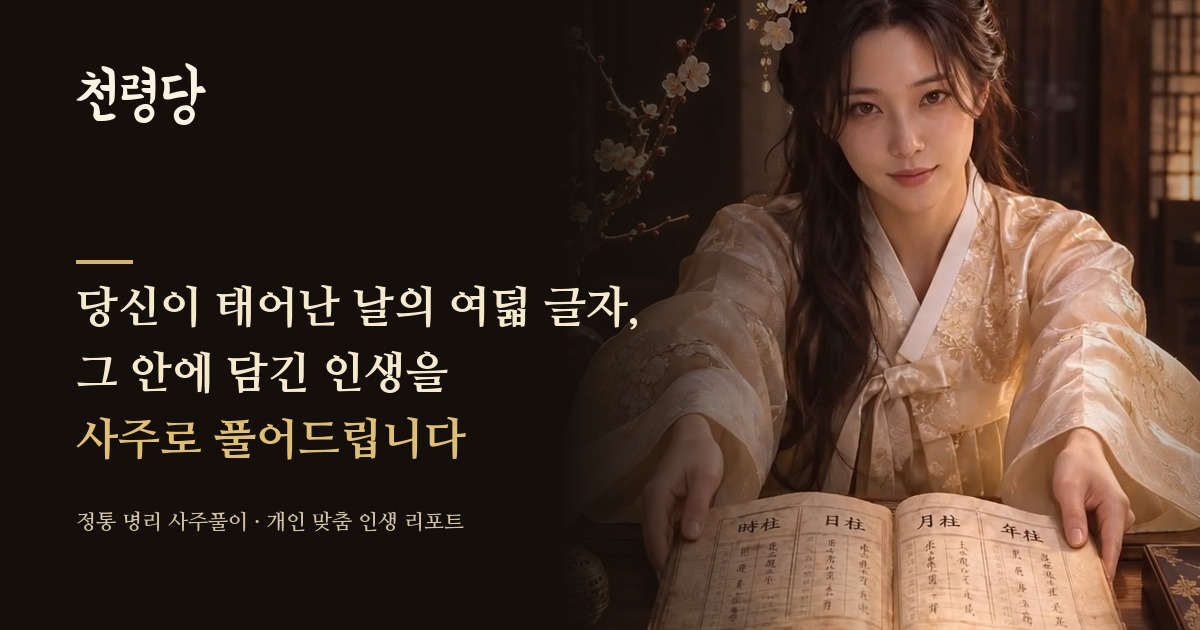
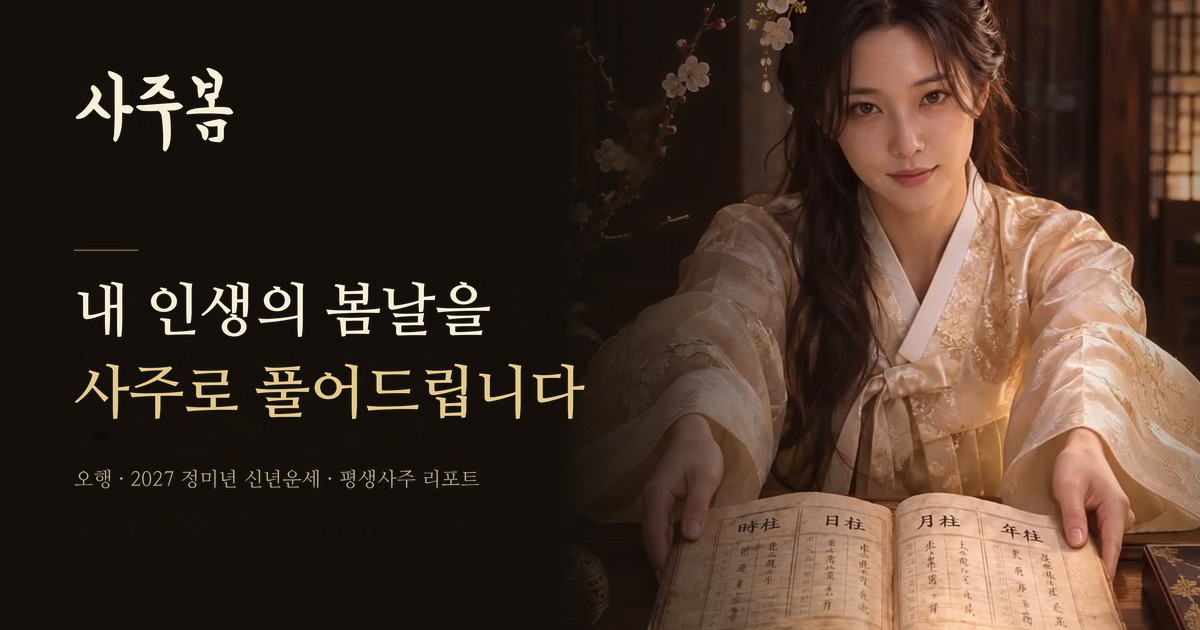
feat(v74): 브랜드 리브랜딩 천령당·월하당 → 사주봄 (전 화면·약관·PDF·OG 카드·메타)

diff --git a/index.html b/index.html
@@ -4,27 +4,27 @@
 <meta charset="utf-8">
 <meta name="viewport" content="width=device-width, initial-scale=1, viewport-fit=cover">
 <meta name="format-detection" content="telephone=no">
-<title>천령당 · 당신의 여덟 글자를 읽다</title>
-<meta name="description" content="천령당 — 달빛 아래, 당신의 여덟 글자. 테마별 심층 풀이와, 타고난 기질부터 인생의 전환점·재물·직업·사랑·가족·노후까지 담은 프리미엄 인생사주 리포트.">
+<title>사주봄 · 내 인생의 봄날을 사주로 풀어드립니다</title>
+<meta name="description" content="사주봄 — 내 인생의 봄날을 사주로 풀어드립니다. 사주 오행과 2027 정미년 신년운세, 테마별 심층 풀이부터 타고난 기질·재물·직업·사랑·가족·노후까지 담은 평생사주 리포트.">
 <meta name="theme-color" content="#FAF7F2">
-<meta name="author" content="천령당">
+<meta name="author" content="사주봄">
 <link rel="canonical" href="https://with-hj.github.io/wolhadang-saju/">
 
 <meta property="og:type" content="website">
-<meta property="og:site_name" content="천령당">
+<meta property="og:site_name" content="사주봄">
 <meta property="og:url" content="https://with-hj.github.io/wolhadang-saju/">
-<meta property="og:title" content="천령당 · 당신의 여덟 글자를 읽다">
-<meta property="og:description" content="당신이 태어난 날의 여덟 글자, 그 안에 담긴 인생을 사주로 풀어드립니다.">
-<meta property="og:image" content="https://with-hj.github.io/wolhadang-saju/assets/og-card.jpg?v=73">
+<meta property="og:title" content="사주봄 · 내 인생의 봄날을 사주로 풀어드립니다">
+<meta property="og:description" content="내 인생의 봄날을 사주로 풀어드립니다. 나의 오행과 2027 정미년 신년운세, 평생사주 리포트까지.">
+<meta property="og:image" content="https://with-hj.github.io/wolhadang-saju/assets/og-card.jpg?v=74">
 <meta property="og:image:type" content="image/jpeg">
 <meta property="og:image:width" content="1200">
 <meta property="og:image:height" content="630">
-<meta property="og:image:alt" content="천령당 — 당신의 여덟 글자를 읽다">
+<meta property="og:image:alt" content="사주봄 — 내 인생의 봄날을 사주로 풀어드립니다">
 <meta property="og:locale" content="ko_KR">
 <meta name="twitter:card" content="summary_large_image">
-<meta name="twitter:title" content="천령당 · 당신의 여덟 글자를 읽다">
-<meta name="twitter:description" content="당신이 태어난 날의 여덟 글자, 그 안에 담긴 인생을 사주로 풀어드립니다.">
-<meta name="twitter:image" content="https://with-hj.github.io/wolhadang-saju/assets/og-card.jpg?v=73">
+<meta name="twitter:title" content="사주봄 · 내 인생의 봄날을 사주로 풀어드립니다">
+<meta name="twitter:description" content="내 인생의 봄날을 사주로 풀어드립니다. 나의 오행과 2027 정미년 신년운세, 평생사주 리포트까지.">
+<meta name="twitter:image" content="https://with-hj.github.io/wolhadang-saju/assets/og-card.jpg?v=74">
 
 <link rel="icon" type="image/png" sizes="180x180" href="./assets/icon.png">
 <link rel="apple-touch-icon" sizes="180x180" href="./assets/icon.png">
@@ -34,8 +34,8 @@
 <link rel="preconnect" href="https://cdn.jsdelivr.net" crossorigin>
 <link href="https://fonts.googleapis.com/css2?family=Gowun+Batang:wght@400;700&family=Nanum+Myeongjo:wght@400;700;800&family=Yeon+Sung&display=swap" rel="stylesheet">
 <link rel="stylesheet" href="https://cdn.jsdelivr.net/gh/orioncactus/pretendard@v1.3.9/dist/web/variable/pretendardvariable-dynamic-subset.min.css" crossorigin="anonymous">
-<link rel="stylesheet" href="./styles.css?v=73">
-<link rel="stylesheet" href="./book.css?v=73">
+<link rel="stylesheet" href="./styles.css?v=74">
+<link rel="stylesheet" href="./book.css?v=74">
 <script>window.__errs=[];addEventListener('error',function(e){__errs.push(e.message||String(e))});addEventListener('unhandledrejection',function(e){__errs.push('promise:'+e.reason)});</script>
 <!-- v54 · 첫 대문(게이트) 노출 여부를 첫 그림 전에 정한다 — 깜빡임 없이 바로 뜨거나 바로 건너뛴다 -->
 <script>
@@ -55,8 +55,8 @@
 
 <header class="hd">
   <div class="wrap">
-    <a class="brand" href="#top" aria-label="천령당 홈">
-      <span class="bn">천령당</span>
+    <a class="brand" href="#top" aria-label="사주봄 홈">
+      <span class="bn">사주봄</span>
     </a>
     <!-- v53 · 우측 서랍 메뉴 열기 -->
     <button type="button" class="hd-menu" id="menuBtn" aria-label="메뉴 열기" aria-haspopup="dialog" aria-expanded="false" aria-controls="drawer">
@@ -274,7 +274,7 @@
       <div class="lr-intro">
         <div class="lr-hero" id="lrHero">
           <!-- v60 · 첫 화면에서 함께 받지 않는다. 인생사주 리포트 트랙을 열 때 스크립트가 data-src를 실제 src로 옮겨 재생한다. -->
-          <video class="lr-art" id="lrVideo" data-src="./assets/videos/report.mp4?v=73" poster="./assets/videos/report-poster.jpg?v=73"
+          <video class="lr-art" id="lrVideo" data-src="./assets/videos/report.mp4?v=74" poster="./assets/videos/report-poster.jpg?v=74"
             muted playsinline loop preload="none" aria-label="인생사주 리포트 소개 영상"></video>
           <span class="lr-veil" aria-hidden="true"></span>
         </div>
@@ -532,7 +532,7 @@
   <section class="sec sec-brand">
     <div class="wrap">
       <div class="brand-note">
-        <span class="no">천령당</span>
+        <span class="no">사주봄</span>
         <p>여덟 글자에 새겨진 하늘의 뜻을,<br>한 사람의 언어로 옮깁니다.</p>
       </div>
     </div>
@@ -551,7 +551,7 @@
       <button type="button" class="ft-lk" data-doc="terms" aria-haspopup="dialog">이용약관</button><i aria-hidden="true">|</i><button type="button" class="ft-lk" data-doc="privacy" aria-haspopup="dialog">개인정보처리방침</button><i aria-hidden="true">|</i><button type="button" class="ft-lk" data-doc="refund" aria-haspopup="dialog">환불규정</button>
     </div>
     <div class="ft-note">
-      <button type="button" class="ft-adm" id="ftAdmin" aria-haspopup="dialog">관리자</button><span>© 2026 천령당 · All rights reserved.</span>
+      <button type="button" class="ft-adm" id="ftAdmin" aria-haspopup="dialog">관리자</button><span>© 2026 사주봄 · All rights reserved.</span>
     </div>
   </div>
 </footer>
@@ -561,7 +561,7 @@
 <aside class="drawer" id="drawer" role="dialog" aria-modal="true" aria-labelledby="drTitle" aria-hidden="true">
   <div class="dr-hd">
     <div class="dr-brand">
-      <span class="dr-t" id="drTitle">천령당</span>
+      <span class="dr-t" id="drTitle">사주봄</span>
     </div>
     <button type="button" class="dr-x" id="drClose" aria-label="메뉴 닫기">✕</button>
   </div>
@@ -579,7 +579,7 @@
       <button type="button" class="dr-link" data-dr="contact">문의하기</button>
     </nav>
   </div>
-  <div class="dr-ft">천령당 · 사주명리 기반 참고 해석</div>
+  <div class="dr-ft">사주봄 · 사주명리 기반 참고 해석</div>
 </aside>
 
 <!-- ================= v53 · 마이페이지 ================= -->
@@ -634,14 +634,14 @@
 
 <template id="lgTerms">
 <div class="lg-doc">
-  <p class="lg-t">이 약관은 스앤빅(이하 “회사”)이 운영하는 천령당(이하 “서비스”)의 이용 조건과 절차, 회사와 이용자의 권리·의무를 정합니다. 결제 전에 꼭 읽어 주세요.</p>
+  <p class="lg-t">이 약관은 스앤빅(이하 “회사”)이 운영하는 사주봄(이하 “서비스”)의 이용 조건과 절차, 회사와 이용자의 권리·의무를 정합니다. 결제 전에 꼭 읽어 주세요.</p>
 
   <h4>제1조 (목적)</h4>
   <p>이 약관은 회사가 제공하는 사주명리 기반 디지털 콘텐츠의 이용과 관련하여 회사와 이용자 사이의 권리·의무 및 책임 사항, 이용 조건과 절차를 정하는 것을 목적으로 합니다.</p>
 
   <h4>제2조 (정의)</h4>
   <ul class="lg-ul">
-    <li>“서비스”란 회사가 천령당 웹사이트를 통해 제공하는 사주명리 해석 콘텐츠와 이에 부수하는 일체의 서비스를 말합니다.</li>
+    <li>“서비스”란 회사가 사주봄 웹사이트를 통해 제공하는 사주명리 해석 콘텐츠와 이에 부수하는 일체의 서비스를 말합니다.</li>
     <li>“이용자”란 이 약관에 따라 서비스를 이용하는 자를 말합니다.</li>
     <li>“유료 콘텐츠”란 대금을 지급하고 이용하는 콘텐츠로서 테마별 풀이(3,900원)와 인생사주 리포트(정가 119,000원, 판매가 39,800원, 테마별 풀이를 결제한 경우 35,900원)를 말합니다.</li>
     <li>“접수번호”란 유료 콘텐츠 신청 시 회사가 부여하는 식별 번호를 말합니다.</li>
@@ -871,7 +871,7 @@
 <!-- ================= 관리자 비밀번호 ================= -->
 <div class="pwmodal" id="pwModal" role="dialog" aria-modal="true" aria-labelledby="pwTitle" aria-hidden="true">
   <div class="pwbox" id="pwBox">
-    <span class="pw-brand" aria-hidden="true">천령당</span>
+    <span class="pw-brand" aria-hidden="true">사주봄</span>
     <h3 id="pwTitle">관리자 비밀번호 입력</h3>
     <p class="pw-sub">운영자만 열람할 수 있습니다.</p>
     <form id="pwForm" autocomplete="off">
@@ -889,7 +889,7 @@
 <div class="sheet" id="adminSheet" aria-hidden="true" data-mode="admin">
   <div class="sheet-hd">
     <div class="wrap">
-      <h2 id="sheetTitle">천령당 · 내 인생사주 리포트</h2>
+      <h2 id="sheetTitle">사주봄 · 내 인생사주 리포트</h2>
       <button type="button" class="x" id="admClose">닫기</button>
     </div>
   </div>
@@ -945,7 +945,7 @@
 <div class="gate" id="gate" role="dialog" aria-modal="true" aria-labelledby="gateBrand" tabindex="-1">
   <div class="gate-frame">
     <!-- v60 · 대문이 실제로 뜰 때만 대문 영상을 받는다(돌아온 손님은 받지 않음). 아래 인라인 스크립트가 곧바로 src를 붙인다. -->
-    <video id="gateVideo" class="gate-video" data-src="./assets/videos/gate.mp4?v=73" poster="./assets/gate-poster.jpg?v=73"
+    <video id="gateVideo" class="gate-video" data-src="./assets/videos/gate.mp4?v=74" poster="./assets/gate-poster.jpg?v=74"
       autoplay muted playsinline loop preload="none"></video>
     <script>
     (function(){
@@ -958,7 +958,7 @@
     <span class="gate-veil" aria-hidden="true"></span>
 
     <div class="gate-top">
-      <span class="gate-brand" id="gateBrand">천령당</span>
+      <span class="gate-brand" id="gateBrand">사주봄</span>
     </div>
     <button type="button" class="gate-skip" id="gateSkip">건너뛰기</button>
 
@@ -971,17 +971,17 @@
   </div>
 </div>
 
-<script src="./engine.js?v=73"></script>
-<script src="./deep-core.js?v=73"></script>
-<script src="./content.js?v=73"></script>
-<script src="./content-deep.js?v=73"></script>
-<script src="./content-general.js?v=73"></script>
-<script src="./content-love.js?v=73"></script>
-<script src="./content-marriage.js?v=73"></script>
-<script src="./content-baby.js?v=73"></script>
-<script src="./content-wealth.js?v=73"></script>
-<script src="./book.js?v=73"></script>
-<script src="./book-more.js?v=73"></script>
-<script src="./app.js?v=73"></script>
+<script src="./engine.js?v=74"></script>
+<script src="./deep-core.js?v=74"></script>
+<script src="./content.js?v=74"></script>
+<script src="./content-deep.js?v=74"></script>
+<script src="./content-general.js?v=74"></script>
+<script src="./content-love.js?v=74"></script>
+<script src="./content-marriage.js?v=74"></script>
+<script src="./content-baby.js?v=74"></script>
+<script src="./content-wealth.js?v=74"></script>
+<script src="./book.js?v=74"></script>
+<script src="./book-more.js?v=74"></script>
+<script src="./app.js?v=74"></script>
 </body>
 </html>

diff --git a/book-more.js b/book-more.js
@@ -1,5 +1,5 @@
 /* =====================================================================
-   천령당 인생사주 리포트 — 시간의 지도 (평생 대운 · 5년 세운 · 12개월 월력)
+   사주봄 인생사주 리포트 — 시간의 지도 (평생 대운 · 5년 세운 · 12개월 월력)
    + 개운 처방 · 맞춤 질문 · 검수 서명 · 부록
    ===================================================================== */
 (function(){
@@ -18,9 +18,9 @@ function stemS(s){return S.STEM_KO[s]+'('+S.STEM_HAN[s]+')';}
 function brS(b){return S.BR_KO[b]+'('+S.BR_HAN[b]+')';}
 function page(label,body,opt){
   opt=opt||{};
-  return '<section class="pg"><div class="pg-hd"><span class="l">천령당 · LIFE SAJU REPORT</span><span class="r">'+label+'</span></div>'+
+  return '<section class="pg"><div class="pg-hd"><span class="l">사주봄 · LIFE SAJU REPORT</span><span class="r">'+label+'</span></div>'+
     '<div class="pg-bd'+(opt.spread?' spread':'')+'">'+body+'</div>'+
-    '<div class="pg-ft"><span>천령당 · 인생사주 리포트</span><span class="pn">__PN__</span></div></section>';
+    '<div class="pg-ft"><span>사주봄 · 인생사주 리포트</span><span class="pn">__PN__</span></div></section>';
 }
 function push(h){ B.pages.push(h); }
 function chapter(key,no,title,sub){ B.chapters.push({key:key,no:no,title:title,sub:sub,page:B.pages.length+1}); }
@@ -525,14 +525,14 @@ function signPages(){
     '<tr><td class="k">현재 대운</td><td>'+R.daeun[R.curDaeun].from+'~'+R.daeun[R.curDaeun].to+'세 · '+S.tenGod(R.dStem,R.daeun[R.curDaeun].idx%10)+'</td></tr>'+
     '<tr><td class="k">발행일</td><td>'+today.getFullYear()+'.'+n2(today.getMonth()+1)+'.'+n2(today.getDate())+'</td></tr></table>'+
     '<p>위 원국과 대운은 입력된 생년월일·시간·지역을 기준으로 계산되었습니다. 생년월일이 다르거나 시간이 추정이라면 책자의 1장(총평)과 15장(평생 대운)을 우선 확인하시고, 필요한 경우 재발행을 요청하세요.</p>'+
-    '<div class="sign"><div class="row"><span>검수</span><span class="sig">천령당</span></div><div class="row"><span>판독</span><span>사주명리 기반 참고 해석</span></div><div class="row"><span>문의</span><span>sajutome@gmail.com</span></div></div>',{spread:true}));
+    '<div class="sign"><div class="row"><span>검수</span><span class="sig">사주봄</span></div><div class="row"><span>판독</span><span>사주명리 기반 참고 해석</span></div><div class="row"><span>문의</span><span>sajutome@gmail.com</span></div></div>',{spread:true}));
   push(page('20 / REVIEW',secLabel('20','CLOSING · 맺음말')+'<h1>이 책을 덮으며</h1>'+
     '<p class="lead">사주는 바꿀 수 없습니다. 하지만 오늘 저녁 무엇을 하는지는 바꿀 수 있습니다. 이 책은 그 한 칸을 위해 쓴 글입니다.</p>'+
     '<p>'+esc(B.name)+' 님의 여덟 글자는 '+gzP(R.dStem,R.dBranch)+'일주입니다. 이 책에서 가장 중요한 문장은 아마 <b>'+S.GOD_KEY[c.topGodInGrp]+'</b>에 대한 설명일 것입니다. 그 힘이 쓰이는 자리에서 이 사주는 오래 갑니다.</p>'+
     '<p>두 번째로 중요한 것은 '+elK(c.yongEl)+'입니다. '+S.EL_DEEP[c.yongEl].habit+' — 이 한 가지를 3개월 지켜보세요. 사주는 큰 사건으로 바뀌지 않고, 매일의 작은 기울기로 바뀝니다.</p>'+
     '<p>세 번째는 시간입니다. 가장 힘이 실리는 10년은 <b>'+R.daeun[S.bestDaeun(R,c).i].from+'~'+R.daeun[S.bestDaeun(R,c).i].to+'세</b>입니다. 그때까지 무엇을 심어두는지가 결과를 바꿉니다.</p>'+
     callout('마지막 한 줄','<p>좋은 삶은 좋은 운에서 오지 않습니다. 좋은 <b>순서</b>에서 옵니다. 이 책이 그 순서를 정하는 데 쓰이길 바랍니다.</p>')+
-    '<p style="text-align:right;margin-top:8mm;color:#6E6353">천령당 드림</p>',{spread:true}));
+    '<p style="text-align:right;margin-top:8mm;color:#6E6353">사주봄 드림</p>',{spread:true}));
 }
 
 /* ---------------- 부록 ---------------- */
@@ -555,12 +555,12 @@ function appendPages(){
     '<tr><td class="k">양</td><td>받아들이고 돌보는 힘</td></tr></table>'+
     '<h3>오행의 상생과 상극</h3><p>목생화 · 화생토 · 토생금 · 금생수 · 수생목 — 이 순서로 기운이 흐릅니다. 반대로 목극토 · 토극수 · 수극화 · 화극금 · 금극목은 서로를 누르는 관계입니다.</p>',{spread:true}));
   push(page('21 / APPENDIX',secLabel('21','APPENDIX · 이용 안내')+'<h1>이 책에 대하여</h1>'+
-    '<p class="lead">이 책자는 천령당이 사주명리 상징을 생활의 언어로 옮겨 만든 참고 해석입니다.</p>'+
+    '<p class="lead">이 책자는 사주봄이 사주명리 상징을 생활의 언어로 옮겨 만든 참고 해석입니다.</p>'+
     '<ul><li>수록 범위 — 원국·오행·십성·십이운성·신살·격국, 8개 삶의 영역, 평생 대운 9구간, 2027~2031 세운, 2027년 월력, 개운 처방, 맞춤 질문 답변</li>'+
     '<li>계산 방식 — 년주는 입춘, 월주는 절기, 일주는 1900년 1월 1일 갑술일 기준, 시주는 오자둔법. 출생 지역의 경도 차이는 시주 계산에 반영했습니다.</li>'+
     '<li>주의 — 의학적 진단, 법률·투자 판단, 결혼·이혼 등 중대한 결정의 근거로 사용할 수 없습니다.</li>'+
     '<li>재발행 — 생년월일·시간·지역이 달라지면 같은 책을 다시 만들 수 있습니다.</li></ul>'+
-    '<p class="note">천령당 · 2026 · sajutome@gmail.com</p>'+
+    '<p class="note">사주봄 · 2026 · sajutome@gmail.com</p>'+
     callout('기록','<p>이 책의 원국은 '+R.y+'.'+n2(R.m)+'.'+n2(R.d)+' '+(R.hIdxP!=null?S.BR_HAN[R.hIdxP%12]+'시':'시간 미상')+' · '+gzP(R.dStem,R.dBranch)+'일주 기준입니다.</p>'),{spread:true}));
   var d=S.EL_DEEP[c.yongEl];
   chapter('appendix2','22','30일 실천 가이드','관찰·이행·경계·재독');

diff --git a/app.js b/app.js
@@ -1,5 +1,5 @@
 /* =====================================================================
-   천령당 — 화면 (홈·무료운세·타로·5대 테마·PDF 신청·관리자)
+   사주봄 — 화면 (홈·무료운세·타로·5대 테마·PDF 신청·관리자)
    ===================================================================== */
 (function(){
 'use strict';
@@ -1348,7 +1348,7 @@ function makeOrder(b,email,phone,from){
     gender:b.gender,tsoff:b.tsoff,regionName:b.regionName,regionKey:b.regionKey,cal:state.pcal,
     stage:stage?stage.getAttribute('data-s'):'',marry:marry?marry.getAttribute('data-m'):'single',
     kid:kid?kid.getAttribute('data-c'):'none',q:($('#lz-q').value||'').trim(),email:email,phone:phone||'',
-    product:'천령당 인생사주 리포트',priceRegular:119000,price:themeCredit()?35900:39800,
+    product:'사주봄 인생사주 리포트',priceRegular:119000,price:themeCredit()?35900:39800,
     themePaid:themeCredit(),status:'결제대기',from:from||'form'};
 }
 function submitPdf(){
@@ -1395,7 +1395,7 @@ function showPayStep(o){
   p.classList.add('on');
   p.innerHTML='<div class="pay-box fade-in">'+
     '<div class="pay-tag">주문 확인</div>'+
-    '<h3>천령당 인생사주 리포트</h3>'+
+    '<h3>사주봄 인생사주 리포트</h3>'+
     '<p class="pay-sub">검수 후 이메일로 보내드리는 A4 책자형 PDF입니다.</p>'+
     '<div class="pay-rows">'+payRowsHTML(o)+'</div>'+
     '<p class="pay-test">테스트 모드 · 실제 결제는 청구되지 않습니다</p>'+
@@ -1464,7 +1464,7 @@ function setSheetMode(mode){
   mode=(mode==='admin')?'admin':'cust';
   sh.setAttribute('data-mode',mode);
   var t=$('#sheetTitle');
-  if(t) t.textContent=(mode==='admin')?'관리자 검수함':'천령당 · 내 인생사주 리포트';
+  if(t) t.textContent=(mode==='admin')?'관리자 검수함':'사주봄 · 내 인생사주 리포트';
   var lv=$('#admListView'); if(lv) lv.style.display=(mode==='admin')?'block':'none';
   var bk=$('#admBack'); if(bk) bk.style.display=(mode==='admin')?'':'none';
 }
@@ -1835,7 +1835,7 @@ function makePdf(host,name){
       restoreDom();
       prog('파일을 저장하고 있어요…',0.99,'');
       setTimeout(function(){
-        try{ doc.save('천령당-인생사주-'+safeName(name)+'.pdf'); }
+        try{ doc.save('사주봄-인생사주-'+safeName(name)+'.pdf'); }
         catch(e){ reject(e); return; }
         prog('PDF가 저장되었습니다',1,'다운로드 폴더에서 확인해 주세요. 인앱 브라우저에서는 저장 위치가 다를 수 있습니다.');
         setTimeout(progOff,1500);

diff --git a/book.js b/book.js
@@ -1,5 +1,5 @@
 /* =====================================================================
-   천령당 인생사주 리포트 — 책자 생성기
+   사주봄 인생사주 리포트 — 책자 생성기
    A4 · 크림 배경 · 네이비 제목 · 오렌지 라벨
    ===================================================================== */
 (function(){
@@ -86,9 +86,9 @@ function salsOf(R){
 /* ---------------- 페이지 조립 ---------------- */
 function page(label,body,opt){
   opt=opt||{};
-  return '<section class="pg"><div class="pg-hd"><span class="l">천령당 · LIFE SAJU REPORT</span><span class="r">'+label+'</span></div>'+
+  return '<section class="pg"><div class="pg-hd"><span class="l">사주봄 · LIFE SAJU REPORT</span><span class="r">'+label+'</span></div>'+
     '<div class="pg-bd'+(opt.spread?' spread':'')+'">'+body+'</div>'+
-    '<div class="pg-ft"><span>천령당 · 인생사주 리포트</span><span class="pn">__PN__</span></div></section>';
+    '<div class="pg-ft"><span>사주봄 · 인생사주 리포트</span><span class="pn">__PN__</span></div></section>';
 }
 function push(html){ B.pages.push(html); }
 function chapter(key,no,title,sub){
@@ -132,7 +132,7 @@ function monthTxt(o){ return '<b>'+o.y+'년 '+o.m+'월('+S.STEM_KO[o.s]+S.BR_KO[
 function coverPage(){
   var R=B.R;
   return '<section class="pg cover"><div class="art" style="background-image:url(./assets/cover-art.jpg)"></div><div class="veil"></div><div class="frame"><i></i></div>'+
-    '<div class="inner"><div><div class="cover-brand">천령당</div>'+
+    '<div class="inner"><div><div class="cover-brand">사주봄</div>'+
     '<div class="han">인생사주 리포트</div><div class="rule"></div><div class="sub">PREMIUM LIFE REPORT</div></div>'+
     '<div class="epi"><span class="orn"></span><p>여덟 글자에 새겨진 하늘의 뜻을<br>한 사람의 설계도로 옮겼습니다</p></div>'+
     '<div class="box"><div class="nm">'+esc(B.name)+'</div>'+

diff --git a/engine.js b/engine.js
@@ -1,5 +1,5 @@
 /* =====================================================================
-   천령당 — 사주 계산 엔진 (v9)
+   사주봄 — 사주 계산 엔진 (v9)
    · 년주(입춘) / 월주(절기) / 일주 / 시주(오자둔), 진태양시 보정 지원
    · 음력 변환 1900~2100
    ===================================================================== */
@@ -1318,7 +1318,7 @@ function tabPara(k,T,R,c,input,name){
 }
 
 /* =====================================================================
-   월하당 v7 · 테마별 전용 장(章) 엔진 — 공통 도구와 달력
+   사주봄 v7 · 테마별 전용 장(章) 엔진 — 공통 도구와 달력
    ===================================================================== */
 var EUL='을를', EUN='은는', IGA='이가';
 function eul(s){ return josaP(s,EUL); }

diff --git a/styles.css b/styles.css
@@ -1,5 +1,5 @@
 /* =====================================================================
-   천령당 — v9 스타일
+   사주봄 — v9 스타일
    먹빛(ink) + 금(gold) + 주홍(vermilion) / 모바일 가독성 우선
    ===================================================================== */
 :root{
@@ -1556,7 +1556,7 @@ html.no-gate .gate{display:none}
 .drawer .dr-sub:active{background:rgba(92,70,48,.09);color:#2D2218}
 .drawer .dr-ft{border-top:1px solid rgba(92,70,48,.12);color:#9A8A72}
 
-/* ---------- 5) 브랜드 · 푸터 : 먹갈색 + 붓글씨 천령당 ---------- */
+/* ---------- 5) 브랜드 · 푸터 : 먹갈색 + 붓글씨 사주봄 ---------- */
 .sec-brand{background:#2D2218;padding:34px 0 30px}
 .brand-note .no{
   font-family:'Yeon Sung',var(--serif);font-size:20px;font-weight:400;letter-spacing:.1em;

diff --git a/deep-core.js b/deep-core.js
@@ -1,5 +1,5 @@
 /* =====================================================================
-   천령당 — 정밀 해석 코어 (v31)
+   사주봄 — 정밀 해석 코어 (v31)
    · 네 기둥 사이의 합·충·형·파·해·원진·공망을 실제 글자로 찾아 문장화
    · 지장간 · 십이운성 · 신살(도화·역마·화개·천을·문창·금여·양인·백호·괴강·홍염)
    · 신강·신약의 근거(득령·득지·득세·통근), 용신·희신·기신·구신

diff --git a/content-deep.js b/content-deep.js
@@ -1,5 +1,5 @@
 /* =====================================================================
-   천령당 — 심화 장 (모든 세부 탭 공통)
+   사주봄 — 심화 장 (모든 세부 탭 공통)
    테마별 풀이 뒤에 붙어 한 편을 1만 자 안팎(10~12장)으로 만듭니다.
    각 장은 그 사람의 원국 값으로만 문장을 만들고, 테마에 따라 적용 문단이 달라집니다.
    ===================================================================== */

diff --git a/book.css b/book.css
@@ -1,5 +1,5 @@
 /* =====================================================================
-   천령당 인생사주 리포트 — A4 책자 (크림 배경 · 네이비 제목 · 오렌지 라벨)
+   사주봄 인생사주 리포트 — A4 책자 (크림 배경 · 네이비 제목 · 오렌지 라벨)
    ===================================================================== */
 #wl2-book{
   --b-cream:#F6F1E7; --b-cream2:#FBF8F2; --b-navy:#2D2218; --b-ink:#2A2119;

diff --git a/content.js b/content.js
@@ -1,5 +1,5 @@
 /* =====================================================================
-   천령당 — 콘텐츠 코어 : 공통 조각 + 5대 테마 · 16개 세부 탭 정의
+   사주봄 — 콘텐츠 코어 : 공통 조각 + 5대 테마 · 16개 세부 탭 정의
    탭별 챕터 본문은 content-*.js 에서 CTP[테마]로 채웁니다.
    ===================================================================== */
 (function(){

diff --git a/content-general.js b/content-general.js
@@ -1,4 +1,4 @@
-/* 천령당 — 종합운세 : 신년운세 · 평생사주 (v68 전면 개편)
+/* 사주봄 — 종합운세 : 신년운세 · 평생사주 (v68 전면 개편)
    원칙
    1) 사주를 한 번도 배운 적 없는 사람이 읽어도 막히지 않게 쓴다. 어려운 용어는 쓰지 않는다.
    2) 장마다 첫 문장은 ‘읽고 싶게 만드는 한 줄’로 연다.

diff --git a/content-wealth.js b/content-wealth.js
@@ -1,4 +1,4 @@
-/* 천령당 — 재물·직업 : 재물/횡재 · 직업/이직 · 창업/부업 (v31 정밀판) */
+/* 사주봄 — 재물·직업 : 재물/횡재 · 직업/이직 · 창업/부업 (v31 정밀판) */
 (function(){
 'use strict';
 var C=window.CH, S=C.S;
